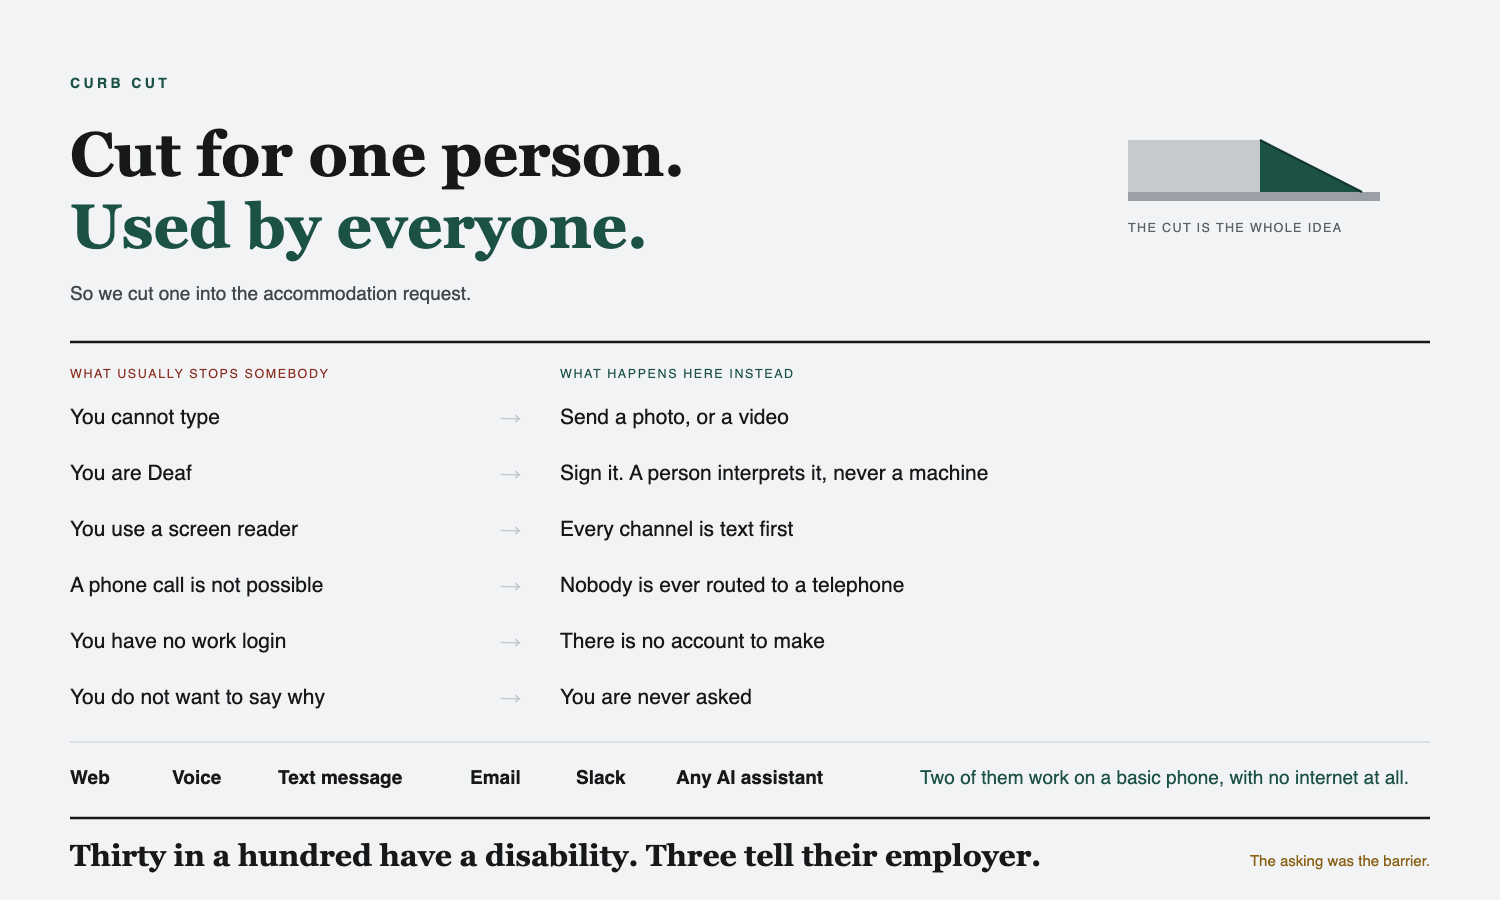
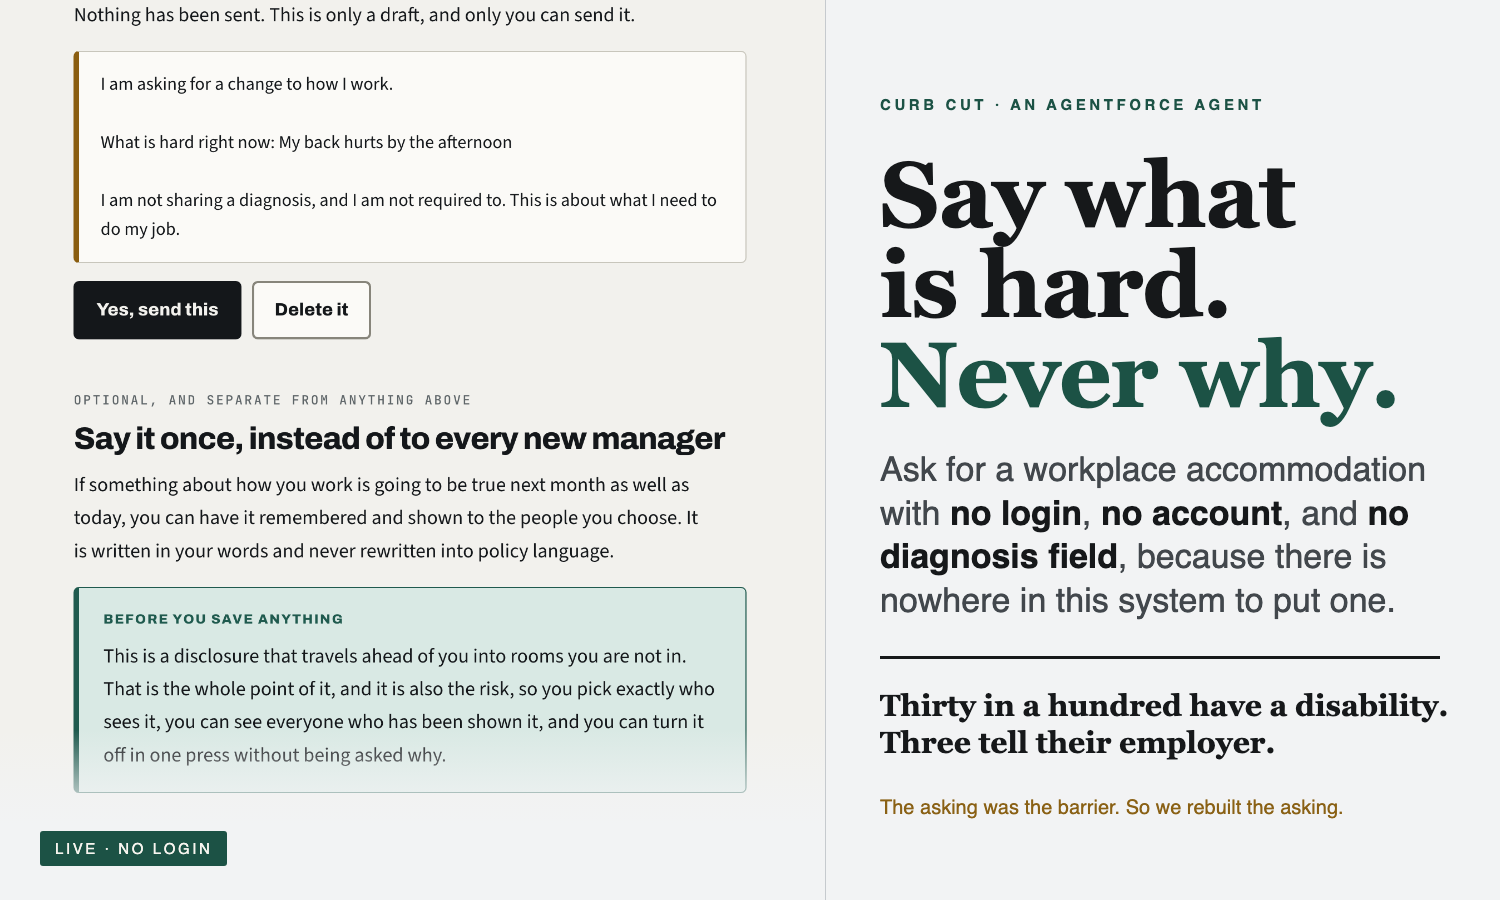
Open the film on the product, give it a caption track, and rebuild the hero around a real screen
Ten judges scored the submission against the actual rubric before this commit.
Three of their findings about the film and the first impression are answered
here; the product defects they found are being fixed on separate branches.

The film opened on eighteen seconds of text cards and did not show the product
until 0:39. It now opens on the live page with the cursor in the box, a sentence
typed letter by letter, the options arriving and the draft written, before a
single card. The judge with ninety seconds sees it working before being told
what it is.

Burnt-in captions are not a caption track, and a blind judge gets nothing from
them. video/captions.py writes curb-cut-demo.srt from the same scene table that
cuts the film, so a caption can no longer disagree with the picture it sits on.
Sixteen cues. Upload it beside the film as the caption track.

Two frames in the film are drawings of the operator console, not captures, and
the film's own README said nothing in it was a mock-up. Both frames now carry a
strip saying what they are: an illustration drawn from the deployed org, every
sentence on it what the system said. Two scripts described two different films;
the older one is archived under docs/archive and the index points at the one
that is generated from the cut.

The hero was a six-row table of 21px text, illegible at Devpost tile size, with
no screen and no agent in it, under a headline that was a metaphor. It is now a
[…]

diff --git a/video/hero.html b/video/hero.html
@@ -1,0 +1,41 @@
+<!doctype html>
+<meta charset="utf-8">
+<title>Curb Cut hero</title>
+<style>
+  /* 1500 x 900. Left: the real product at the moment that matters, a screenshot
+     of the deployed page, not a drawing. Right: what it is, in one line a judge
+     can read at tile size. Cold grey for the ground, warm green for the way out,
+     same as everything else this project ships. */
+  html,body{margin:0;width:1500px;height:900px;background:#F2F3F4;overflow:hidden;font-family:Helvetica,Arial,sans-serif}
+  .wrap{position:relative;width:1500px;height:900px}
+  .shot{position:absolute;left:0;top:0;width:825px;height:900px;overflow:hidden;background:#FFFFFF;border-right:1px solid #C6CACE}
+  /* zoom into the page's centre column so the draft box fills the panel; the
+     source is 3200 wide with the column between x=995 and x=2205 */
+  .shot img{position:absolute;left:-480px;top:-150px;width:1780px;height:auto}
+  .shot .veil{position:absolute;left:0;right:0;bottom:0;height:170px;background:linear-gradient(to bottom,rgba(242,243,244,0),#F2F3F4 55%)}
+  .live{position:absolute;left:40px;bottom:34px;background:#1C5245;color:#F7F5EF;font-size:15px;letter-spacing:2.6px;padding:9px 15px;border-radius:3px}
+  .txt{position:absolute;left:880px;top:0;width:560px;height:900px}
+  .eyebrow{position:absolute;top:96px;font-size:15px;letter-spacing:3.6px;color:#1C5245;font-weight:700}
+  h1{position:absolute;top:150px;margin:0;font-family:Georgia,'Times New Roman',serif;font-size:92px;line-height:0.98;color:#16181A;font-weight:700;letter-spacing:-1px}
+  h1 em{font-style:normal;color:#1C5245}
+  .sub{position:absolute;top:448px;font-size:34px;line-height:1.28;color:#42474C;width:560px}
+  .sub b{color:#16181A;font-weight:700}
+  .rule{position:absolute;top:656px;width:560px;height:3px;background:#16181A}
+  .stat{position:absolute;top:688px;font-family:Georgia,'Times New Roman',serif;font-size:30px;line-height:1.22;color:#16181A;font-weight:700;width:580px}
+  .foot{position:absolute;top:796px;font-size:20px;color:#8A6115;width:560px}
+</style>
+<div class="wrap">
+  <div class="shot">
+    <img src="frames/04-draft.png" alt="">
+    <div class="veil"></div>
+    <div class="live">LIVE  ·  NO LOGIN</div>
+  </div>
+  <div class="txt">
+    <div class="eyebrow">CURB CUT  ·  AN AGENTFORCE AGENT</div>
+    <h1>Say what<br>is hard.<br><em>Never why.</em></h1>
+    <div class="sub">Ask for a workplace accommodation with <b>no login</b>, <b>no account</b>, and <b>no diagnosis field</b>, because there is nowhere in this system to put one.</div>
+    <div class="rule"></div>
+    <div class="stat">Thirty in a hundred have a disability.<br>Three tell their employer.</div>
+    <div class="foot">The asking was the barrier. So we rebuilt the asking.</div>
+  </div>
+</div>

diff --git a/video/script.py b/video/script.py
@@ -6,24 +6,24 @@
 WPM, BREATH, XF = 140.0, 2.0, 0.6
 
 SCENES = [
- ('cards/c01.png', 6, 0, "Curb Cut.",
-    "Two seconds of nothing first."),
- ('cards/c02.png', 13, 0,
-    "Think of the last time something at work was quietly hard. You worked out what it would cost to ask, and you said nothing.",
-    "Slow. This is the only paragraph that has to land."),
- ('cards/c03.png', 9, 0, "Now make that permanent, and make it about your body.",
-    "Flat. No indignation. Let them read the rest."),
- ('frames/10-home.png', 8, 0, "Thirty in a hundred have a disability. Three tell their employer.", ""),
- ('cards/c04.png', 6, 0, "", "Silent. The card says it."),
- # The real thing, recorded: typing appears letter by letter, the options
- # arrive, the draft is written, she presses yes. One continuous take of the
- # live site, not a sequence of stills. 21 seconds of footage held to 24.
+ # The product first. A judge with ninety seconds should see it working before
+ # they are told what it is. One continuous take of the live site: a sentence
+ # typed letter by letter, the options arriving, the draft written in her words.
  ('rec/flow.mp4', 24, 0,
-    "One question, never why. She types it. The options are not generated: twenty-eight rows, each with its source. Then it writes the request in her words.",
-    "Let the typing land before you speak. Pause on 'in her words'."),
+    "This is Curb Cut. One question: what is hard at work right now. Never why. She types it. The options come from a sourced library, not a model. Then it writes the request in her words.",
+    "Silence for the first four seconds while the cursor moves. Then plain."),
  ('frames/04-draft.png', 10, 0,
     "I am not sharing a diagnosis, and I am not required to.",
     "The line the whole thing turns on. Slow down."),
+ ('cards/c03.png', 9, 0, "That is the whole form. Here is the usual one.",
+    "Flat. No indignation. Let them read the card."),
+ ('cards/c01.png', 7, 0, "Curb Cut. An Agentforce agent whose principal is the worker.",
+    ""),
+ ('cards/c02.png', 13, 0,
+    "Think of the last time something at work was quietly hard. You worked out what it would cost to ask, and you said nothing.",
+    "Slow. This is the only paragraph that has to land."),
+ ('frames/10-home.png', 8, 0, "Thirty in a hundred have a disability. Three tell their employer.", ""),
+ ('cards/c04.png', 6, 0, "", "Silent. The card says it."),
  ('cards/c06.png', 7, 0, "A hedge is refused, and a test proves the refusal.", ""),
  ('frames/05-sent.png', 6, 0, "Sent, with a date she can hold them to.", ""),
  ('cards/c07.png', 8, 0, "Two of them work on a basic phone, with no internet.", ""),

diff --git a/video/captions.py b/video/captions.py
@@ -1,0 +1,12 @@
+import script
+def ts(x):
+    h=int(x//3600); m=int(x%3600//60); s=int(x%60); ms=int(round((x-int(x))*1000))
+    return '%02d:%02d:%02d,%03d' % (h,m,s,ms)
+t=0.0; n=0; out=[]
+for src,secs,_,line,_ in script.SCENES:
+    if line:
+        n+=1; a=t+0.4; b=min(t+secs-0.3, a+max(2.5, len(line.split())/140*60+1.2))
+        out.append('%d\n%s --> %s\n%s\n' % (n, ts(a), ts(b), line))
+    t += secs - script.XF
+open('curb-cut-demo.srt','w').write('\n'.join(out))
+print('srt: %d cues, last ends %s' % (n, ts(b)))

diff --git a/submission/VIDEO-NARRATION.md b/submission/VIDEO-NARRATION.md
@@ -1,6 +1,6 @@
 # Curb Cut, demo film. Narration script
 
-Run time **2:39**. Picture is locked, and these timings are generated from the
+Run time **2:40**. Picture is locked, and these timings are generated from the
 same table that cuts the film, so they cannot drift apart from it.
 
 **The film already carries its own captions and works in silence.** That is a
@@ -14,74 +14,38 @@ slide aloud to somebody who is reading it is how a film loses them.
 
 | In | Out | | Line |
 |---|---|---|---|
-| 0:00 | 0:06 | card | Curb Cut. |
-| 0:05 | 0:18 | card | Think of the last time something at work was quietly hard. You worked out what it would cost to ask, and you said nothing. |
-| 0:17 | 0:26 | card | Now make that permanent, and make it about your body. |
-| 0:26 | 0:34 | screen | Thirty in a hundred have a disability. Three tell their employer. |
-| 0:33 | 0:39 | card | _silence_ |
-| 0:39 | 1:03 | screen | One question, never why. She types it. The options are not generated: twenty-eight rows, each with its source. Then it writes the request in her words. |
-| 1:02 | 1:12 | screen | I am not sharing a diagnosis, and I am not required to. |
-| 1:11 | 1:18 | card | A hedge is refused, and a test proves the refusal. |
-| 1:18 | 1:24 | screen | Sent, with a date she can hold them to. |
-| 1:23 | 1:31 | card | Two of them work on a basic phone, with no internet. |
-| 1:31 | 1:36 | screen | _silence_ |
-| 1:35 | 1:40 | screen | She texts first. It never rings her. |
-| 1:39 | 1:45 | card | _silence_ |
-| 1:45 | 1:54 | screen | Absent, not encrypted. The only field that cannot leak is the one that was never created. |
-| 1:53 | 2:02 | screen | So when her manager asks what is wrong with her, it refuses. |
-| 2:02 | 2:10 | screen | If she signs instead of typing, a person interprets it. Never a machine. |
-| 2:09 | 2:16 | screen | One side got an agent. The other side got a form. |
-| 2:15 | 2:22 | card | _silence_ |
-| 2:22 | 2:31 | card | Free for the first ten who will name an owner and answer within five days. |
-| 2:30 | 2:39 | card | They only have to be able to ask. |
+| 0:00 | 0:24 | screen | This is Curb Cut. One question: what is hard at work right now. Never why. She types it. The options come from a sourced library, not a model. Then it writes the request in her words. |
+| 0:23 | 0:33 | screen | I am not sharing a diagnosis, and I am not required to. |
+| 0:32 | 0:41 | card | That is the whole form. Here is the usual one. |
+| 0:41 | 0:48 | card | Curb Cut. An Agentforce agent whose principal is the worker. |
+| 0:47 | 1:00 | card | Think of the last time something at work was quietly hard. You worked out what it would cost to ask, and you said nothing. |
+| 0:59 | 1:08 | screen | Thirty in a hundred have a disability. Three tell their employer. |
+| 1:07 | 1:13 | card | _silence_ |
+| 1:12 | 1:19 | card | A hedge is refused, and a test proves the refusal. |
+| 1:19 | 1:25 | screen | Sent, with a date she can hold them to. |
+| 1:24 | 1:32 | card | Two of them work on a basic phone, with no internet. |
+| 1:32 | 1:37 | screen | _silence_ |
+| 1:36 | 1:41 | screen | She texts first. It never rings her. |
+| 1:40 | 1:46 | card | _silence_ |
+| 1:46 | 1:55 | screen | Absent, not encrypted. The only field that cannot leak is the one that was never created. |
+| 1:54 | 2:03 | screen | So when her manager asks what is wrong with her, it refuses. |
+| 2:03 | 2:11 | screen | If she signs instead of typing, a person interprets it. Never a machine. |
+| 2:10 | 2:17 | screen | One side got an agent. The other side got a form. |
+| 2:16 | 2:23 | card | _silence_ |
+| 2:23 | 2:32 | card | Free for the first ten who will name an owner and answer within five days. |
+| 2:31 | 2:40 | card | They only have to be able to ask. |
 
 ---
 
-### 0:00  c01.png
+### 0:00  flow.mp4
 
-> Curb Cut.
+> This is Curb Cut. One question: what is hard at work right now. Never why. She types it. The options come from a sourced library, not a model. Then it writes the request in her words.
 
-2 words, 6s hold.
+36 words, 24s hold.
 
-**Direction.** Two seconds of nothing first.
+**Direction.** Silence for the first four seconds while the cursor moves. Then plain.
 
-### 0:05  c02.png
-
-> Think of the last time something at work was quietly hard. You worked out what it would cost to ask, and you said nothing.
-
-24 words, 13s hold.
-
-**Direction.** Slow. This is the only paragraph that has to land.
-
-### 0:17  c03.png
-
-> Now make that permanent, and make it about your body.
-
-10 words, 9s hold.
-
-**Direction.** Flat. No indignation. Let them read the rest.
-
-### 0:26  10-home.png
-
-> Thirty in a hundred have a disability. Three tell their employer.
-
-11 words, 8s hold.
-
-### 0:33  c04.png
-
-Silence.
-
-**Direction.** Silent. The card says it.
-
-### 0:39  flow.mp4
-
-> One question, never why. She types it. The options are not generated: twenty-eight rows, each with its source. Then it writes the request in her words.
-
-26 words, 24s hold.
-
-**Direction.** Let the typing land before you speak. Pause on 'in her words'.
-
-### 1:02  04-draft.png
+### 0:23  04-draft.png
 
 > I am not sharing a diagnosis, and I am not required to.
 
@@ -89,49 +53,83 @@ Silence.
 
 **Direction.** The line the whole thing turns on. Slow down.
 
-### 1:11  c06.png
+### 0:32  c03.png
+
+> That is the whole form. Here is the usual one.
+
+10 words, 9s hold.
+
+**Direction.** Flat. No indignation. Let them read the card.
+
+### 0:41  c01.png
+
+> Curb Cut. An Agentforce agent whose principal is the worker.
+
+10 words, 7s hold.
+
+### 0:47  c02.png
+
+> Think of the last time something at work was quietly hard. You worked out what it would cost to ask, and you said nothing.
+
+24 words, 13s hold.
+
+**Direction.** Slow. This is the only paragraph that has to land.
+
+### 0:59  10-home.png
+
+> Thirty in a hundred have a disability. Three tell their employer.
+
+11 words, 8s hold.
+
+### 1:07  c04.png
+
+Silence.
+
+**Direction.** Silent. The card says it.
+
+### 1:12  c06.png
 
 > A hedge is refused, and a test proves the refusal.
 
 10 words, 7s hold.
 
-### 1:18  05-sent.png
+### 1:19  05-sent.png
 
 > Sent, with a date she can hold them to.
 
 9 words, 6s hold.
 
-### 1:23  c07.png
+### 1:24  c07.png
 
 > Two of them work on a basic phone, with no internet.
 
 11 words, 8s hold.
 
-### 1:31  14-mobile-ask.png
+### 1:32  14-mobile-ask.png
 
 Silence.
 
 **Direction.** Silent.
 
-### 1:35  13-messaging.png
+### 1:36  13-messaging.png
 
 > She texts first. It never rings her.
 
 7 words, 5s hold.
 
-### 1:39  c08.png
+### 1:40  c08.png
 
 Silence.
 
 **Direction.** Silent. Let them read it.
 
-### 1:45  12-privacy.png
+### 1:46  12-privacy.png
 
 > Absent, not encrypted. The only field that cannot leak is the one that was never created.
 
 16 words, 9s hold.
 
-### 1:53  20-console-refusal.png
+### 1:54  20-console-refusal.png
 
 > So when her manager asks what is wrong with her, it refuses.
 
@@ -139,13 +137,13 @@ Silence.
 
 **Direction.** Second emotional beat. Let it sit.
 
-### 2:02  21-signed-video.png
+### 2:03  21-signed-video.png
 
 > If she signs instead of typing, a person interprets it. Never a machine.
 
 13 words, 8s hold.
 
-### 2:09  11-why.png
+### 2:10  11-why.png
 
 > One side got an agent. The other side got a form.
 
@@ -153,19 +151,19 @@ Silence.
 
 **Direction.** Let this hang.
 
-### 2:15  c09.png
+### 2:16  c09.png
 
 Silence.
 
 **Direction.** Silent.
 
-### 2:22  c10.png
+### 2:23  c10.png
 
 > Free for the first ten who will name an owner and answer within five days.
 
 15 words, 9s hold.
 
-### 2:30  c11.png
+### 2:31  c11.png
 
 > They only have to be able to ask.
 
@@ -175,4 +173,4 @@ Silence.
 
 ---
 
-197 words across 2:39, which is 74 words per minute counting the silences.
+215 words across 2:40, which is 80 words per minute counting the silences.

diff --git a/submission/INDEX.md b/submission/INDEX.md
@@ -10,7 +10,7 @@ converts uploads to Google types and a converted deck is not the deck.
 
 | Drive folder | What belongs in it |
 |---|---|
-| 01, Submission | `DEVPOST-ANSWERS.md`, `VIDEO-SCRIPT.md`, `RUN-REQUIRED-TOOLS.md` |
+| 01, Submission | `DEVPOST-ANSWERS.md`, `VIDEO-NARRATION.md`, `RUN-REQUIRED-TOOLS.md` |
 | 02, Technical Design | `TECHNICAL-DESIGN.md` |
 | 03, Deck and Visuals | `Curb-Cut.pptx` |
 | 04. Evidence and Test Output | audit output, adversarial run scores, `A11Y-SA11Y-REPORT.md` |
@@ -56,7 +56,7 @@ converts uploads to Google types and a converted deck is not the deck.
   every claim in it.
 - `DEVPOST-ANSWERS.md`. Every form field paste-ready, including the error-rate
   and environmental answers.
-- `VIDEO-SCRIPT.md`, 2:43, shot by shot, three marked silences.
+- `VIDEO-NARRATION.md`, the film's narration with timecodes, generated from the same table that cuts it.
 - `RUN-REQUIRED-TOOLS.md`, the two tools that gate the submission. One is now
   done with a real run; one still needs a message sent.
 - `Curb-Cut.pptx`, 33 slides in six sections, editable, speaker notes throughout.
@@ -72,6 +72,6 @@ converts uploads to Google types and a converted deck is not the deck.
    organisers, all at once. The accessibility half is done: Salesforce's own
    Sa11y tooling was found, installed and run, and Q1 is written around what it
    found. Q2 has a written fallback if nothing comes back.
-2. **Record the video** against `VIDEO-SCRIPT.md`.
+2. **Upload the film**, and record your voice over it against `VIDEO-NARRATION.md` if you want one.
 3. **Flip the repo public** and paste the link.
 4. **Upload the files** into the Drive folders, or re-authorise Drive for me.
